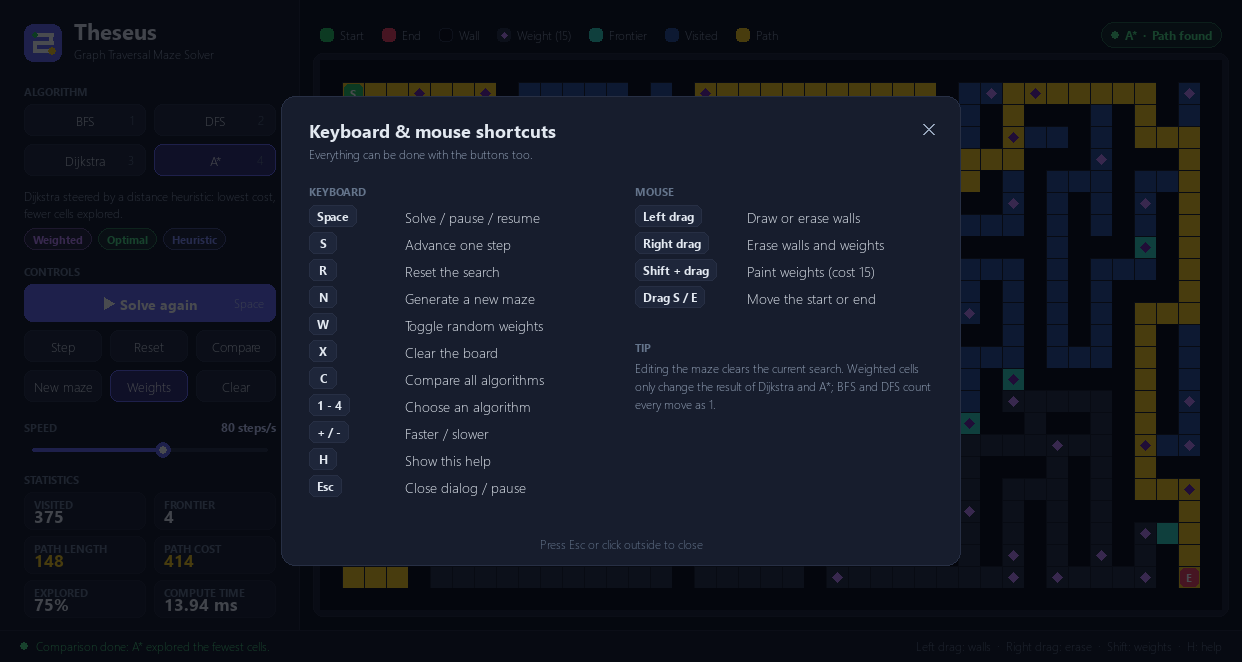
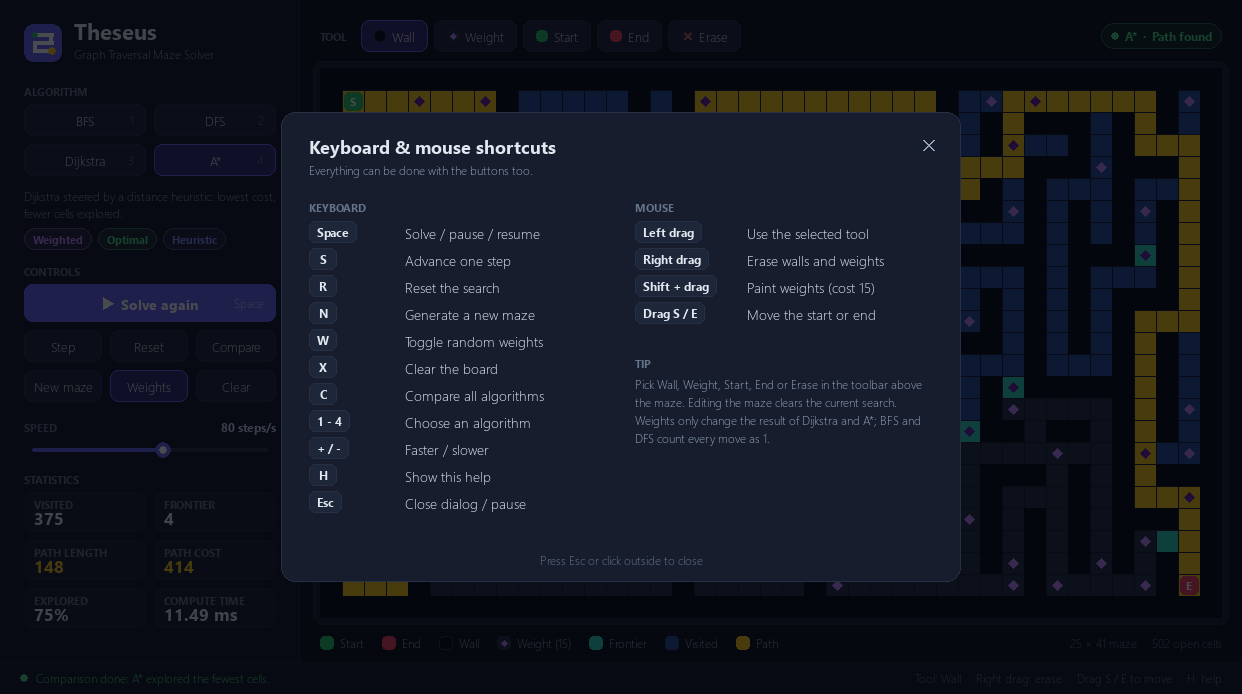
update GUI

diff --git a/main.py b/main.py
@@ -53,7 +53,8 @@ GAP = 8
 BUTTON_H = 32
 SOLVE_H = 38
 PAD = 20
-LEGEND_H = 40
+TOOLBAR_H = 48  # Tool picker above the maze.
+LEGEND_H = 44  # Colour legend below the maze.
 STATUS_H = 32
 
 # Vertical positions of the sidebar sections (algorithm buttons are laid out two per row).
@@ -70,17 +71,17 @@ Y_SPEED_HEADER = Y_ROW_2 + BUTTON_H + 18
 Y_SLIDER = Y_SPEED_HEADER + 22
 Y_STATS_HEADER = Y_SLIDER + 30
 Y_STATS = Y_STATS_HEADER + 20
-TILE_H = 38
-TILE_GAP = 6
+TILE_H = 40
+TILE_GAP = 8
 SIDEBAR_MIN_H = Y_STATS + 3 * TILE_H + 2 * TILE_GAP + 12
 
 # The window fits the maze, but never gets shorter than the sidebar content.
 GRID_X = SIDEBAR_W + PAD
-GRID_Y = PAD + LEGEND_H
+GRID_Y = PAD + TOOLBAR_H
 GRID_W = COLS * CELL
 GRID_H = ROWS * CELL
 WIDTH = GRID_X + GRID_W + PAD
-HEIGHT = max(GRID_Y + GRID_H + PAD, SIDEBAR_MIN_H) + STATUS_H
+HEIGHT = max(GRID_Y + GRID_H + LEGEND_H, SIDEBAR_MIN_H) + STATUS_H
 SIDEBAR_H = HEIGHT - STATUS_H
 
 # Animation speed levels, in expanded cells per second (None = instant).
@@ -196,16 +197,32 @@ HELP_KEYS = (
 )
 
 HELP_MOUSE = (
-    ("Left drag", "Draw or erase walls"),
+    ("Left drag", "Use the selected tool"),
     ("Right drag", "Erase walls and weights"),
     ("Shift + drag", f"Paint weights (cost {DEFAULT_WEIGHT})"),
     ("Drag S / E", "Move the start or end"),
 )
 
 HELP_TIP = (
-    "Editing the maze clears the current search. Weighted cells only change "
-    "the result of Dijkstra and A*; BFS and DFS count every move as 1."
+    "Pick Wall, Weight, Start, End or Erase in the toolbar above the maze. Editing the "
+    "maze clears the current search. Weights only change the result of Dijkstra and A*; "
+    "BFS and DFS count every move as 1."
 )
+
+# Editing tools shown above the maze: (key, label, message shown when it is selected).
+TOOLS = (
+    ("wall", "Wall", "Wall tool: drag to draw walls. Start on a wall to erase instead."),
+    (
+        "weight",
+        "Weight",
+        f"Weight tool: drag to make cells cost {DEFAULT_WEIGHT}. "
+        "Start on a weighted cell to remove weights.",
+    ),
+    ("start", "Start", "Start tool: click any cell to put the start there."),
+    ("end", "End", "End tool: click any cell to put the end there."),
+    ("erase", "Erase", "Erase tool: drag to remove walls and weights."),
+)
+TOOL_LABELS = {key: label for key, label, _ in TOOLS}
 
 CompareResult = namedtuple("CompareResult", "name visited length cost millis error")
 
@@ -395,6 +412,7 @@ class App:
 
         self.status_text = ""
         self.status_level = "info"
+        self.tool = TOOLS[0][0]
         self.edit_mode = None
         self.edit_button = None
         self.last_edit_cell = None
@@ -454,8 +472,22 @@ class App:
             self.clear_board,
         )
 
+        # Tool picker above the maze: a row of buttons sized to their labels.
+        self.tool_buttons = {}
+        tool_x = GRID_X + self.fonts.label.size("TOOL")[0] + 14
+        for key, label, _ in TOOLS:
+            width = self.fonts.button.size(label)[0] + 18 + 26
+            button = Button(
+                (tool_x, PAD, width, BUTTON_H), label, lambda k=key: self.select_tool(k)
+            )
+            button.icon = key
+            self.tool_buttons[key] = button
+            tool_x += width + 6
+        self.toolbar_right = tool_x
+
         self.buttons = [
             *self.algo_buttons.values(),
+            *self.tool_buttons.values(),
             self.solve_button,
             self.step_button,
             self.reset_button,
@@ -724,6 +756,8 @@ class App:
     def _refresh_widgets(self):
         for name, button in self.algo_buttons.items():
             button.selected = name == self.algorithm
+        for key, button in self.tool_buttons.items():
+            button.selected = key == self.tool
         self.weights_button.selected = self.weighted
         self.step_button.enabled = self.state != RUNNING
         self.reset_button.enabled = self.state != IDLE
@@ -895,26 +929,56 @@ class App:
             return None
         return self.grid.get_cell((y - GRID_Y) // CELL, (x - GRID_X) // CELL)
 
+    def select_tool(self, key):
+        for tool_key, _, message in TOOLS:
+            if tool_key == key:
+                self.tool = key
+                self.set_status(message)
+                return
+        self.set_status(f"Unknown tool: {key}", "error")
+
     def _begin_edit(self, cell, mouse_button):
         grid = self.grid
-        if mouse_button == 1 and cell is grid.start:
+        placing = mouse_button == 1 and self.tool in ("start", "end")
+        interior = grid.is_interior(cell.row, cell.col)
+
+        if placing:
+            mode = MOVE_START if self.tool == "start" else MOVE_END
+            other = grid.end if mode == MOVE_START else grid.start
+            if not interior:
+                self.set_status("The outer border of the maze cannot be edited.")
+                return
+            if cell is other:
+                self.set_status("The start and the end need different cells.", "warning")
+                return
+        elif mouse_button == 1 and cell is grid.start:
             mode = MOVE_START
         elif mouse_button == 1 and cell is grid.end:
             mode = MOVE_END
-        elif not grid.is_interior(cell.row, cell.col):
+        elif not interior:
             self.set_status("The outer border of the maze cannot be edited.")
             return
-        elif mouse_button == 3:
+        elif mouse_button == 3 or self.tool == "erase":
             mode = ERASE
-        elif pygame.key.get_mods() & pygame.KMOD_SHIFT:
+        elif self.tool == "weight" or pygame.key.get_mods() & pygame.KMOD_SHIFT:
             mode = REMOVE_WEIGHT if cell.weight > 1 else PAINT_WEIGHT
+            if cell.is_wall:
+                self.set_status("Weights go on open cells. Erase the wall first.")
         else:
             mode = ERASE if cell.is_wall else DRAW_WALL
 
         self.edit_mode = mode
         self.edit_button = mouse_button
         self.last_edit_cell = cell
-        self._apply_edit(cell)
+
+        if placing:
+            if cell.is_wall:  # Placing the start or end on a wall opens that cell.
+                cell.is_wall, cell.weight = False, 1
+            self._apply_edit(cell)
+            name = "Start" if mode == MOVE_START else "End"
+            self.set_status(f"{name} placed at row {cell.row}, column {cell.col}.", "success")
+        else:
+            self._apply_edit(cell)
 
     def _continue_edit(self, cell):
         if self.edit_mode in (MOVE_START, MOVE_END):
@@ -978,8 +1042,9 @@ class App:
         mouse = pygame.mouse.get_pos()
         self.screen.fill(Color.BG)
         self._draw_sidebar(mouse)
-        self._draw_legend()
+        self._draw_toolbar(mouse)
         self._draw_grid(mouse)
+        self._draw_legend()
         self._draw_status_bar(mouse)
         if self.overlay == "help":
             self._draw_help(mouse)
@@ -1096,7 +1161,7 @@ class App:
 
         font = self.fonts.button_bold if button.primary else self.fonts.button
         label = self.texts.render(font, button.label, foreground)
-        icon_width = 16 if button.icon else 0
+        icon_width = 18 if button.icon else 0
         left = rect.centerx - (icon_width + label.get_width()) // 2
         if button.icon:
             self._draw_icon(button.icon, left, rect.centery, foreground)
@@ -1120,6 +1185,8 @@ class App:
         elif icon == "pause":
             self.screen.fill(color, (x, center_y - 6, 3, 12))
             self.screen.fill(color, (x + 6, center_y - 6, 3, 12))
+        else:
+            self._draw_swatch(icon, pygame.Rect(x, center_y - 6, 12, 12))
 
     def _draw_slider(self, mouse):
         slider = self.slider
@@ -1200,15 +1267,20 @@ class App:
             "path": Color.PATH,
             "wall": Color.WALL,
             "weight": Color.FLOOR,
+            "erase": Color.FLOOR,
         }
-        pygame.draw.rect(screen, fills[kind], rect, border_radius=4)
+        pygame.draw.rect(screen, fills.get(kind, Color.FLOOR), rect, border_radius=4)
         if kind == "wall":
             pygame.draw.rect(screen, Color.BORDER, rect, width=1, border_radius=4)
         elif kind == "weight":
             self._draw_weight_marker(rect, Color.WEIGHT)
+        elif kind == "erase":
+            inset = rect.inflate(-6, -6)
+            pygame.draw.line(screen, Color.ERROR, inset.topleft, inset.bottomright, 2)
+            pygame.draw.line(screen, Color.ERROR, inset.bottomleft, inset.topright, 2)
 
     def _draw_legend(self):
-        center_y = PAD + (LEGEND_H - 10) // 2
+        center_y = GRID_Y + GRID_H + (7 + LEGEND_H) // 2
         x = GRID_X
         for label, kind in LEGEND:
             self._draw_swatch(kind, pygame.Rect(x, center_y - 7, 14, 14))
@@ -1217,11 +1289,33 @@ class App:
             )
             x = text_rect.right + 18
 
+        info = f"{ROWS} × {COLS} maze  ·  {self.open_cells:,} open cells"
+        if self.fonts.small.size(info)[0] < GRID_X + GRID_W - x:
+            self._text(self.fonts.small, info, Color.DIM, (GRID_X + GRID_W, center_y), "midright")
+
+    def _tool_color(self):
+        if self.tool == "wall" and pygame.key.get_mods() & pygame.KMOD_SHIFT:
+            return Color.WEIGHT
+        colors = {
+            "wall": Color.HOVER,
+            "weight": Color.WEIGHT,
+            "start": Color.START,
+            "end": Color.END,
+            "erase": Color.ERROR,
+        }
+        return colors.get(self.tool, Color.HOVER)
+
+    def _draw_toolbar(self, mouse):
+        center_y = PAD + BUTTON_H // 2
+        self._text(self.fonts.label, "TOOL", Color.DIM, (GRID_X, center_y), "midleft")
+        for button in self.tool_buttons.values():
+            self._draw_button(button, mouse)
+
         label, color = self._state_label()
         text = self.texts.render(self.fonts.small_bold, f"{self.algorithm}  ·  {label}", color)
         chip = pygame.Rect(0, 0, text.get_width() + 34, 26)
         chip.midright = (GRID_X + GRID_W, center_y)
-        if chip.left > x:
+        if chip.left > self.toolbar_right + 12:
             pygame.draw.rect(self.screen, mix(Color.BG, color, 0.10), chip, border_radius=13)
             pygame.draw.rect(
                 self.screen, mix(Color.BG, color, 0.40), chip, width=1, border_radius=13
@@ -1274,11 +1368,16 @@ class App:
 
         if not self.overlay and self.edit_mode is None:
             cell = self._cell_at(mouse)
-            if cell is not None and (self.grid.is_interior(cell.row, cell.col)):
+            if cell is not None and self.grid.is_interior(cell.row, cell.col):
                 rect = pygame.Rect(
                     GRID_X + cell.col * CELL, GRID_Y + cell.row * CELL, CELL + 1, CELL + 1
                 )
-                pygame.draw.rect(screen, Color.HOVER, rect, width=2, border_radius=3)
+                color = self._tool_color()
+                pygame.draw.rect(screen, color, rect, width=2, border_radius=3)
+                is_endpoint = cell is self.grid.start or cell is self.grid.end
+                if self.tool in ("start", "end") and not is_endpoint:
+                    letter = "S" if self.tool == "start" else "E"
+                    self._text(self.fonts.cell, letter, color, rect.center, "center")
 
     def _draw_endpoint(self, cell, color, letter):
         rect = pygame.Rect(
@@ -1290,7 +1389,8 @@ class App:
     def _hover_description(self, mouse):
         cell = self._cell_at(mouse)
         if cell is None or self.overlay:
-            return "Left drag: walls  ·  Right drag: erase  ·  Shift: weights  ·  H: help"
+            tool = TOOL_LABELS.get(self.tool, "Wall")
+            return f"Tool: {tool}  ·  Right drag: erase  ·  Drag S / E to move  ·  H: help"
         if cell is self.grid.start:
             kind = "Start (drag to move)"
         elif cell is self.grid.end:

diff --git a/README.md b/README.md
@@ -76,7 +76,7 @@ It is built with Python and pygame. The only dependency is **pygame-ce**.
 | 🎬 **Step-by-step animation** | Ten speed levels, from 2 expanded cells per second up to *Instant*. Pause, resume or advance one step at a time. |
 | 🧱 **Random maze generator** | An iterative depth-first backtracker carves a perfect maze, then knocks out about 8% of the separating walls so there are several routes to choose from. |
 | ⚖ **Weighted cells** | Toggle random weights, or paint them yourself. A weighted cell costs **15** to enter instead of 1, so you can see Dijkstra and A* route around them. |
-| ✏ **Live editing** | Draw and erase walls, paint weights, and drag the start or end. Fast mouse drags are interpolated, so they never leave gaps. |
+| ✏ **Live editing** | A toolbar above the maze with **Wall**, **Weight**, **Start**, **End** and **Erase** tools. You can also drag S and E directly. Fast mouse drags are interpolated, so they never leave gaps. |
 | 📊 **Live statistics** | Visited cells, frontier size, path length, path cost, percentage of the maze explored and pure algorithm compute time. |
 | 🏁 **Compare mode** | Runs every algorithm on the current maze and shows the results in a table, with the best value in each column highlighted. |
 | 💬 **Helpful feedback** | A colour-coded status bar, a cell inspector under the mouse, and a built-in shortcut reference (press **H**). |
@@ -139,15 +139,27 @@ py main.py
 | <kbd>Esc</kbd> | Close a dialog, or pause a running search |
 | <kbd>Ctrl</kbd> + <kbd>Q</kbd> | Quit |
 
-### Mouse
+### Mouse and editing tools
+
+Pick a tool in the **toolbar above the maze**, then click or drag on the maze with the left mouse button:
+
+| Tool | What the left mouse button does |
+|---|---|
+| ⬛ **Wall** *(default)* | Draws walls. If you start the drag on a wall, it erases walls instead. |
+| 🔷 **Weight** | Makes cells cost 15 to enter. If you start on a weighted cell, it removes weights instead. |
+| 🟩 **Start** | Puts the start on the cell you click. Clicking a wall opens that cell. |
+| 🟥 **End** | Puts the end on the cell you click. Clicking a wall opens that cell. |
+| ❌ **Erase** | Removes walls and weights. |
+
+These shortcuts work whichever tool is selected:
 
 | Gesture | Action |
 |---|---|
-| **Left drag** on an open cell | Draw walls |
-| **Left drag** starting on a wall | Erase walls |
 | **Right drag** | Erase walls and weights |
 | **Shift + left drag** | Paint weighted cells (or remove them, if you start on one) |
 | **Drag S or E** | Move the start or the end |
+
+While you hover over the maze, the outline takes the selected tool's colour. The Start and End tools also preview the letter, so you can see what a click will do.
 
 > [!TIP]
 > Editing the maze while a search is shown clears that search automatically, so the picture never mixes old results with a new maze.
@@ -182,8 +194,9 @@ py main.py
 
 **Maze area (right)**
 
-- A **legend** explains every colour, and a **status chip** shows the algorithm and its state (*Ready*, *Running*, *Paused*, *Path found* or *No path*).
-- The **maze** itself. Hovering a cell outlines it.
+- Above the maze, the **toolbar** (Wall, Weight, Start, End, Erase) chooses what the mouse does. A **status chip** on the right shows the algorithm and its state (*Ready*, *Running*, *Paused*, *Path found* or *No path*).
+- The **maze** itself. Hovering a cell outlines it in the colour of the selected tool.
+- Below the maze, a **legend** explains every colour, next to the maze size and the number of open cells.
 
 **Status bar (bottom)**
 
@@ -449,7 +462,7 @@ All tuning values are plain constants at the top of each file.
 The window size follows from these values:
 
 - **width** = `340 + COLS × CELL`
-- **height** = `max(80 + ROWS × CELL, 630) + 32`
+- **height** = `max(112 + ROWS × CELL, 640) + 32`
 
 The window never gets shorter than the sidebar needs. Keep `COLS × CELL` at about **620 or more** so the legend fits on one line.
 
